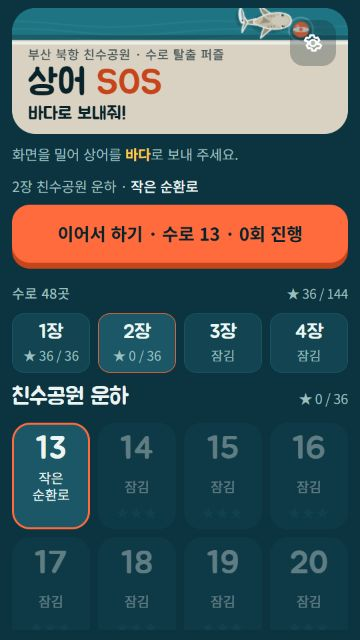
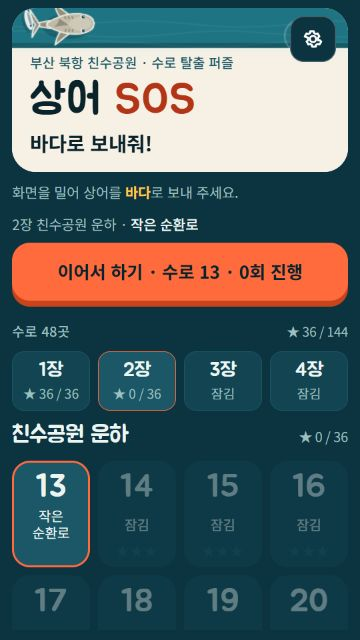
메인 타이틀 글자 크기와 대비·여백 개선

diff --git a/dist/artifact.html b/dist/artifact.html
@@ -21,6 +21,8 @@
   --muted: #9dbfbe;
   --buoy: #ff6b3d;         /* accent: lifebuoy orange */
   --buoy-deep: #c8441b;
+  --hero-paper: #f7f1e5;
+  --title-alert: #b23517;
   --star: #ffc94a;
   --net: #ecd9a0;
   --shark: #c1baa6;        /* warm shark back, distinct from teal water */
@@ -78,23 +80,23 @@ svg.i { width: 22px; height: 22px; fill: none; stroke: currentColor; stroke-widt
 /* ----- Title ----- */
 .title-screen { overflow-y: auto; gap: 12px; scrollbar-width: none; margin-inline: -12px; padding-inline: 12px; padding-bottom: 8px; -webkit-overflow-scrolling: touch; }
 .title-screen::-webkit-scrollbar { display: none; }
-.hero { position: relative; border-radius: 24px; overflow: hidden; background: var(--water); flex-shrink: 0; }
-.hero canvas { display: block; width: 100%; height: 144px; }
-.hero-text { position: absolute; left: 16px; bottom: 10px; right: 16px; pointer-events: none; }
+.hero { position: relative; border-radius: 24px; overflow: hidden; background: var(--hero-paper); flex-shrink: 0; }
+.hero canvas { display: block; width: 100%; height: 180px; }
+.hero-text { position: absolute; left: 18px; bottom: 16px; right: 18px; pointer-events: none; }
 .eyebrow { font-size: 13px; letter-spacing: .03em; color: var(--muted); font-weight: 500; }
-.hero .eyebrow { font-size: 12.5px; color: var(--ink); opacity: .7; }
+.hero .eyebrow { font-size: 13.5px; line-height: 1.35; letter-spacing: 0; color: var(--harbor-3); }
 h1 {
   font-family: var(--font-display);
   font-weight: 400;
-  font-size: clamp(34px, 10vw, 42px);
-  line-height: 1;
-  margin: 2px 0 0;
+  font-size: clamp(40px, 12vw, 48px);
+  line-height: 1.08;
+  margin: 6px 0 0;
   color: var(--ink);
-  text-wrap: balance;
-  letter-spacing: -.01em;
+  white-space: nowrap;
+  letter-spacing: .01em;
 }
-h1 .sea { color: var(--buoy-deep); }
-.hero-subtitle { font-family: var(--font-display); font-size: 18px; line-height: 1.1; margin: 3px 0 0; color: var(--ink); }
+h1 .sea { color: var(--title-alert); }
+.hero-subtitle { font-family: var(--font-body); font-size: 20px; font-weight: 700; line-height: 1.3; margin: 6px 0 0; color: var(--ink); }
 .lede { margin: 0; color: var(--muted); font-size: 14px; line-height: 1.5; text-wrap: pretty; }
 .lede b { color: var(--star); font-weight: 700; }
 /* daily canal card: the one bright block on the title, sea-to-canal gradient with a lifebuoy badge */
@@ -187,7 +189,7 @@ h1 .sea { color: var(--buoy-deep); }
   display: inline-flex; align-items: center; justify-content: center; transition: background .15s, transform .2s var(--ease-spring);
 }
 .icon-btn:active { transform: scale(.9); transition-duration: .08s; }
-.hero .icon-btn { position: absolute; top: 12px; right: 12px; background: rgba(10,35,43,.28); color: #fff; z-index: 1; }
+.hero .icon-btn { position: absolute; top: 8px; right: 12px; background: var(--harbor); box-shadow: inset 0 0 0 1px rgba(255,255,255,.25); color: #fff; z-index: 1; }
 @media (hover: hover) {
   .lv:not([disabled]):hover, .btn:not(.primary):hover, .icon-btn:hover, .ctrl:hover { background: var(--harbor-3); }
   .btn.primary:hover { filter: brightness(1.06); }
@@ -332,7 +334,7 @@ h1 .sea { color: var(--buoy-deep); }
 }
 @media (max-height: 700px) {
   .title-screen { gap: 10px; }
-  .hero canvas { height: 126px; }
+  .hero canvas { height: 164px; }
   .game-screen { gap: 3px; }
   .game-screen .topbar { min-height: 44px; }
   .game-screen .icon-btn { width: 44px; height: 44px; }
@@ -1372,7 +1374,7 @@ if (typeof module !== 'undefined') module.exports = { MASKS, rng, place, DAILY_T
 const $ = id => document.getElementById(id);
 const css = getComputedStyle(document.documentElement);
 const C = {};
-['harbor','water','water-hi','sea','concrete','concrete-2','rail','park','ink','text','muted','buoy','star','net','shark','shark-2']
+['harbor','water','water-hi','sea','concrete','concrete-2','rail','park','ink','text','muted','buoy','star','net','shark','shark-2','hero-paper']
   .forEach(k => C[k] = css.getPropertyValue('--' + k).trim());
 const SHIRTS = ['#e4572e', '#f3a712', '#29335c', '#a8c686', '#ffffff', '#669bbc', '#b56576', '#2b2d42'];
 const ANG = { R: 0, D: Math.PI / 2, L: Math.PI, U: -Math.PI / 2 };
@@ -2529,11 +2531,11 @@ function sizeHero() {
 }
 function drawHero(t) {
   if (!heroW) sizeHero();
-  const W = heroW, H = heroH, waterH = H - 94, T = Math.min(64, waterH * 1.2, W / 5.2);   // room for the rescue title and subtitle, with the same water height
+  const W = heroW, H = heroH, waterH = H - 124, T = Math.min(64, waterH * 1.2, W / 5.2);   // keep the moving water above the larger, spaced title block
   hctx.fillStyle = C.water; hctx.fillRect(0, 0, W, waterH);
   hctx.strokeStyle = 'rgba(255,255,255,.06)'; hctx.lineWidth = 1.5;
   for (let r = 0; r < 4; r++) { hctx.beginPath(); for (let x = 0; x <= W; x += 8) { const y = 16 + r * waterH / 4 + Math.sin(x * 0.03 + t * (1 + r * .2) + r) * 3; x ? hctx.lineTo(x, y) : hctx.moveTo(x, y); } hctx.stroke(); }
-  hctx.fillStyle = C.concrete; hctx.fillRect(0, waterH, W, H - waterH);
+  hctx.fillStyle = C['hero-paper']; hctx.fillRect(0, waterH, W, H - waterH);
   hctx.fillStyle = 'rgba(6,30,38,.3)'; hctx.fillRect(0, waterH - 5, W, 5);
   hctx.strokeStyle = C.rail; hctx.lineWidth = 3; hctx.beginPath(); hctx.moveTo(0, waterH + 3); hctx.lineTo(W, waterH + 3); hctx.stroke();
   const span = W + T * 2, sx = ((t * 60) % span) - T, sy = waterH * 0.52 + Math.sin(t * 1.5) * waterH * 0.12;

diff --git a/dist/index.html b/dist/index.html
@@ -28,6 +28,8 @@
   --muted: #9dbfbe;
   --buoy: #ff6b3d;         /* accent: lifebuoy orange */
   --buoy-deep: #c8441b;
+  --hero-paper: #f7f1e5;
+  --title-alert: #b23517;
   --star: #ffc94a;
   --net: #ecd9a0;
   --shark: #c1baa6;        /* warm shark back, distinct from teal water */
@@ -85,23 +87,23 @@ svg.i { width: 22px; height: 22px; fill: none; stroke: currentColor; stroke-widt
 /* ----- Title ----- */
 .title-screen { overflow-y: auto; gap: 12px; scrollbar-width: none; margin-inline: -12px; padding-inline: 12px; padding-bottom: 8px; -webkit-overflow-scrolling: touch; }
 .title-screen::-webkit-scrollbar { display: none; }
-.hero { position: relative; border-radius: 24px; overflow: hidden; background: var(--water); flex-shrink: 0; }
-.hero canvas { display: block; width: 100%; height: 144px; }
-.hero-text { position: absolute; left: 16px; bottom: 10px; right: 16px; pointer-events: none; }
+.hero { position: relative; border-radius: 24px; overflow: hidden; background: var(--hero-paper); flex-shrink: 0; }
+.hero canvas { display: block; width: 100%; height: 180px; }
+.hero-text { position: absolute; left: 18px; bottom: 16px; right: 18px; pointer-events: none; }
 .eyebrow { font-size: 13px; letter-spacing: .03em; color: var(--muted); font-weight: 500; }
-.hero .eyebrow { font-size: 12.5px; color: var(--ink); opacity: .7; }
+.hero .eyebrow { font-size: 13.5px; line-height: 1.35; letter-spacing: 0; color: var(--harbor-3); }
 h1 {
   font-family: var(--font-display);
   font-weight: 400;
-  font-size: clamp(34px, 10vw, 42px);
-  line-height: 1;
-  margin: 2px 0 0;
+  font-size: clamp(40px, 12vw, 48px);
+  line-height: 1.08;
+  margin: 6px 0 0;
   color: var(--ink);
-  text-wrap: balance;
-  letter-spacing: -.01em;
+  white-space: nowrap;
+  letter-spacing: .01em;
 }
-h1 .sea { color: var(--buoy-deep); }
-.hero-subtitle { font-family: var(--font-display); font-size: 18px; line-height: 1.1; margin: 3px 0 0; color: var(--ink); }
+h1 .sea { color: var(--title-alert); }
+.hero-subtitle { font-family: var(--font-body); font-size: 20px; font-weight: 700; line-height: 1.3; margin: 6px 0 0; color: var(--ink); }
 .lede { margin: 0; color: var(--muted); font-size: 14px; line-height: 1.5; text-wrap: pretty; }
 .lede b { color: var(--star); font-weight: 700; }
 /* daily canal card: the one bright block on the title, sea-to-canal gradient with a lifebuoy badge */
@@ -194,7 +196,7 @@ h1 .sea { color: var(--buoy-deep); }
   display: inline-flex; align-items: center; justify-content: center; transition: background .15s, transform .2s var(--ease-spring);
 }
 .icon-btn:active { transform: scale(.9); transition-duration: .08s; }
-.hero .icon-btn { position: absolute; top: 12px; right: 12px; background: rgba(10,35,43,.28); color: #fff; z-index: 1; }
+.hero .icon-btn { position: absolute; top: 8px; right: 12px; background: var(--harbor); box-shadow: inset 0 0 0 1px rgba(255,255,255,.25); color: #fff; z-index: 1; }
 @media (hover: hover) {
   .lv:not([disabled]):hover, .btn:not(.primary):hover, .icon-btn:hover, .ctrl:hover { background: var(--harbor-3); }
   .btn.primary:hover { filter: brightness(1.06); }
@@ -339,7 +341,7 @@ h1 .sea { color: var(--buoy-deep); }
 }
 @media (max-height: 700px) {
   .title-screen { gap: 10px; }
-  .hero canvas { height: 126px; }
+  .hero canvas { height: 164px; }
   .game-screen { gap: 3px; }
   .game-screen .topbar { min-height: 44px; }
   .game-screen .icon-btn { width: 44px; height: 44px; }
@@ -1379,7 +1381,7 @@ if (typeof module !== 'undefined') module.exports = { MASKS, rng, place, DAILY_T
 const $ = id => document.getElementById(id);
 const css = getComputedStyle(document.documentElement);
 const C = {};
-['harbor','water','water-hi','sea','concrete','concrete-2','rail','park','ink','text','muted','buoy','star','net','shark','shark-2']
+['harbor','water','water-hi','sea','concrete','concrete-2','rail','park','ink','text','muted','buoy','star','net','shark','shark-2','hero-paper']
   .forEach(k => C[k] = css.getPropertyValue('--' + k).trim());
 const SHIRTS = ['#e4572e', '#f3a712', '#29335c', '#a8c686', '#ffffff', '#669bbc', '#b56576', '#2b2d42'];
 const ANG = { R: 0, D: Math.PI / 2, L: Math.PI, U: -Math.PI / 2 };
@@ -2536,11 +2538,11 @@ function sizeHero() {
 }
 function drawHero(t) {
   if (!heroW) sizeHero();
-  const W = heroW, H = heroH, waterH = H - 94, T = Math.min(64, waterH * 1.2, W / 5.2);   // room for the rescue title and subtitle, with the same water height
+  const W = heroW, H = heroH, waterH = H - 124, T = Math.min(64, waterH * 1.2, W / 5.2);   // keep the moving water above the larger, spaced title block
   hctx.fillStyle = C.water; hctx.fillRect(0, 0, W, waterH);
   hctx.strokeStyle = 'rgba(255,255,255,.06)'; hctx.lineWidth = 1.5;
   for (let r = 0; r < 4; r++) { hctx.beginPath(); for (let x = 0; x <= W; x += 8) { const y = 16 + r * waterH / 4 + Math.sin(x * 0.03 + t * (1 + r * .2) + r) * 3; x ? hctx.lineTo(x, y) : hctx.moveTo(x, y); } hctx.stroke(); }
-  hctx.fillStyle = C.concrete; hctx.fillRect(0, waterH, W, H - waterH);
+  hctx.fillStyle = C['hero-paper']; hctx.fillRect(0, waterH, W, H - waterH);
   hctx.fillStyle = 'rgba(6,30,38,.3)'; hctx.fillRect(0, waterH - 5, W, 5);
   hctx.strokeStyle = C.rail; hctx.lineWidth = 3; hctx.beginPath(); hctx.moveTo(0, waterH + 3); hctx.lineTo(W, waterH + 3); hctx.stroke();
   const span = W + T * 2, sx = ((t * 60) % span) - T, sy = waterH * 0.52 + Math.sin(t * 1.5) * waterH * 0.12;

diff --git a/src/shell.html b/src/shell.html
@@ -21,6 +21,8 @@
   --muted: #9dbfbe;
   --buoy: #ff6b3d;         /* accent: lifebuoy orange */
   --buoy-deep: #c8441b;
+  --hero-paper: #f7f1e5;
+  --title-alert: #b23517;
   --star: #ffc94a;
   --net: #ecd9a0;
   --shark: #c1baa6;        /* warm shark back, distinct from teal water */
@@ -78,23 +80,23 @@ svg.i { width: 22px; height: 22px; fill: none; stroke: currentColor; stroke-widt
 /* ----- Title ----- */
 .title-screen { overflow-y: auto; gap: 12px; scrollbar-width: none; margin-inline: -12px; padding-inline: 12px; padding-bottom: 8px; -webkit-overflow-scrolling: touch; }
 .title-screen::-webkit-scrollbar { display: none; }
-.hero { position: relative; border-radius: 24px; overflow: hidden; background: var(--water); flex-shrink: 0; }
-.hero canvas { display: block; width: 100%; height: 144px; }
-.hero-text { position: absolute; left: 16px; bottom: 10px; right: 16px; pointer-events: none; }
+.hero { position: relative; border-radius: 24px; overflow: hidden; background: var(--hero-paper); flex-shrink: 0; }
+.hero canvas { display: block; width: 100%; height: 180px; }
+.hero-text { position: absolute; left: 18px; bottom: 16px; right: 18px; pointer-events: none; }
 .eyebrow { font-size: 13px; letter-spacing: .03em; color: var(--muted); font-weight: 500; }
-.hero .eyebrow { font-size: 12.5px; color: var(--ink); opacity: .7; }
+.hero .eyebrow { font-size: 13.5px; line-height: 1.35; letter-spacing: 0; color: var(--harbor-3); }
 h1 {
   font-family: var(--font-display);
   font-weight: 400;
-  font-size: clamp(34px, 10vw, 42px);
-  line-height: 1;
-  margin: 2px 0 0;
+  font-size: clamp(40px, 12vw, 48px);
+  line-height: 1.08;
+  margin: 6px 0 0;
   color: var(--ink);
-  text-wrap: balance;
-  letter-spacing: -.01em;
+  white-space: nowrap;
+  letter-spacing: .01em;
 }
-h1 .sea { color: var(--buoy-deep); }
-.hero-subtitle { font-family: var(--font-display); font-size: 18px; line-height: 1.1; margin: 3px 0 0; color: var(--ink); }
+h1 .sea { color: var(--title-alert); }
+.hero-subtitle { font-family: var(--font-body); font-size: 20px; font-weight: 700; line-height: 1.3; margin: 6px 0 0; color: var(--ink); }
 .lede { margin: 0; color: var(--muted); font-size: 14px; line-height: 1.5; text-wrap: pretty; }
 .lede b { color: var(--star); font-weight: 700; }
 /* daily canal card: the one bright block on the title, sea-to-canal gradient with a lifebuoy badge */
@@ -187,7 +189,7 @@ h1 .sea { color: var(--buoy-deep); }
   display: inline-flex; align-items: center; justify-content: center; transition: background .15s, transform .2s var(--ease-spring);
 }
 .icon-btn:active { transform: scale(.9); transition-duration: .08s; }
-.hero .icon-btn { position: absolute; top: 12px; right: 12px; background: rgba(10,35,43,.28); color: #fff; z-index: 1; }
+.hero .icon-btn { position: absolute; top: 8px; right: 12px; background: var(--harbor); box-shadow: inset 0 0 0 1px rgba(255,255,255,.25); color: #fff; z-index: 1; }
 @media (hover: hover) {
   .lv:not([disabled]):hover, .btn:not(.primary):hover, .icon-btn:hover, .ctrl:hover { background: var(--harbor-3); }
   .btn.primary:hover { filter: brightness(1.06); }
@@ -332,7 +334,7 @@ h1 .sea { color: var(--buoy-deep); }
 }
 @media (max-height: 700px) {
   .title-screen { gap: 10px; }
-  .hero canvas { height: 126px; }
+  .hero canvas { height: 164px; }
   .game-screen { gap: 3px; }
   .game-screen .topbar { min-height: 44px; }
   .game-screen .icon-btn { width: 44px; height: 44px; }

diff --git a/src/game.js b/src/game.js
@@ -3,7 +3,7 @@
 const $ = id => document.getElementById(id);
 const css = getComputedStyle(document.documentElement);
 const C = {};
-['harbor','water','water-hi','sea','concrete','concrete-2','rail','park','ink','text','muted','buoy','star','net','shark','shark-2']
+['harbor','water','water-hi','sea','concrete','concrete-2','rail','park','ink','text','muted','buoy','star','net','shark','shark-2','hero-paper']
   .forEach(k => C[k] = css.getPropertyValue('--' + k).trim());
 const SHIRTS = ['#e4572e', '#f3a712', '#29335c', '#a8c686', '#ffffff', '#669bbc', '#b56576', '#2b2d42'];
 const ANG = { R: 0, D: Math.PI / 2, L: Math.PI, U: -Math.PI / 2 };
@@ -1160,11 +1160,11 @@ function sizeHero() {
 }
 function drawHero(t) {
   if (!heroW) sizeHero();
-  const W = heroW, H = heroH, waterH = H - 94, T = Math.min(64, waterH * 1.2, W / 5.2);   // room for the rescue title and subtitle, with the same water height
+  const W = heroW, H = heroH, waterH = H - 124, T = Math.min(64, waterH * 1.2, W / 5.2);   // keep the moving water above the larger, spaced title block
   hctx.fillStyle = C.water; hctx.fillRect(0, 0, W, waterH);
   hctx.strokeStyle = 'rgba(255,255,255,.06)'; hctx.lineWidth = 1.5;
   for (let r = 0; r < 4; r++) { hctx.beginPath(); for (let x = 0; x <= W; x += 8) { const y = 16 + r * waterH / 4 + Math.sin(x * 0.03 + t * (1 + r * .2) + r) * 3; x ? hctx.lineTo(x, y) : hctx.moveTo(x, y); } hctx.stroke(); }
-  hctx.fillStyle = C.concrete; hctx.fillRect(0, waterH, W, H - waterH);
+  hctx.fillStyle = C['hero-paper']; hctx.fillRect(0, waterH, W, H - waterH);
   hctx.fillStyle = 'rgba(6,30,38,.3)'; hctx.fillRect(0, waterH - 5, W, 5);
   hctx.strokeStyle = C.rail; hctx.lineWidth = 3; hctx.beginPath(); hctx.moveTo(0, waterH + 3); hctx.lineTo(W, waterH + 3); hctx.stroke();
   const span = W + T * 2, sx = ((t * 60) % span) - T, sy = waterH * 0.52 + Math.sin(t * 1.5) * waterH * 0.12;

diff --git a/docs/TITLE-READABILITY.md b/docs/TITLE-READABILITY.md
@@ -1,0 +1,21 @@
+# 메인 타이틀 가독성
+
+## 변경 이유와 적용
+
+작은 화면의 제목은 36px, 부제는 18px였고, 12.5px 상단 설명에 투명도 0.7이 적용돼 있었다. 좁은 줄 간격과 낮은 글자 대비를 조정했다.
+
+- 제목: `clamp(40px, 12vw, 48px)`, 줄 높이 1.08. 360px에서는 36 → 43.2px, 390px에서는 39 → 46.8px로 커진다.
+- 부제: 주아 18px → Noto Sans KR 20px/700, 줄 높이 1.3. 제목 아래 여백은 3 → 6px.
+- 상단 설명: 12.5 → 13.5px, 투명도를 없애고 진한 청록 글자로 표시.
+- 제목 영역은 밝은 단색 `--hero-paper: #f7f1e5`로, SOS는 진한 주황 `--title-alert: #b23517`로 표시한다. 이 조합의 계산상 대비는 약 5.47:1이며 기존 약 3.22:1보다 높다. 수로 게임판의 색은 유지한다.
+- 배너 높이는 일반 화면 144 → 180px, 낮은 화면 126 → 164px로 늘린다. 텍스트 영역 위에 물결·상어 장식이 위치하며, 제목 블록에는 18px 좌우/16px 아래 여백을 준다.
+- 설정 버튼에 불투명한 청록 배경과 밝은 테두리를 적용해 움직이는 장식과 구분한다. 버튼 크기와 동작은 유지한다.
+
+## 확인
+
+- 320×568: 제목 40px, 제목/부제 가로 넘침 없음. 이어하기 버튼 전체가 첫 화면에 보인다.
+- 360×640 및 390×844: 제목/부제의 크기와 배치를 브라우저에서 확인했다. 배너가 높아진 만큼 수로 목록은 아래로 이동하며 기존 목록 스크롤을 사용한다.
+- 메인 설정 열기와 기존 별 36개/수로 13의 0회 이어하기 표시를 확인했다. 제목/챕터 스토어 이미지도 갱신했다.
+- `npm test` 36개, `npm run verify` 48개 수로 통과. `build`, `build:artifact`, `build:web`, `cap:sync` 확인.
+
+이 기록은 브라우저 크기별 확인과 색상 대비 계산이며 실제 이용자의 읽기 속도나 실물 기기 시험 결과가 아니다. 이름, 저장 키, 앱 ID, 별/스킨/힌트 규칙은 유지한다.

diff --git a/docs/APP-NAME.md b/docs/APP-NAME.md
@@ -19,3 +19,5 @@
 - `npm test` 36개와 `npm run verify` 48개 수로 통과.
 
 이름 변경의 브라우저 확인은 실제 이용자의 반응이나 실물 기기의 설치 시험을 대신하지 않는다.
+
+이후 메인 타이틀의 크기·대비·여백을 추가 개선했다. 현재 배너 높이와 크기별 확인은 `TITLE-READABILITY.md` 참고.
